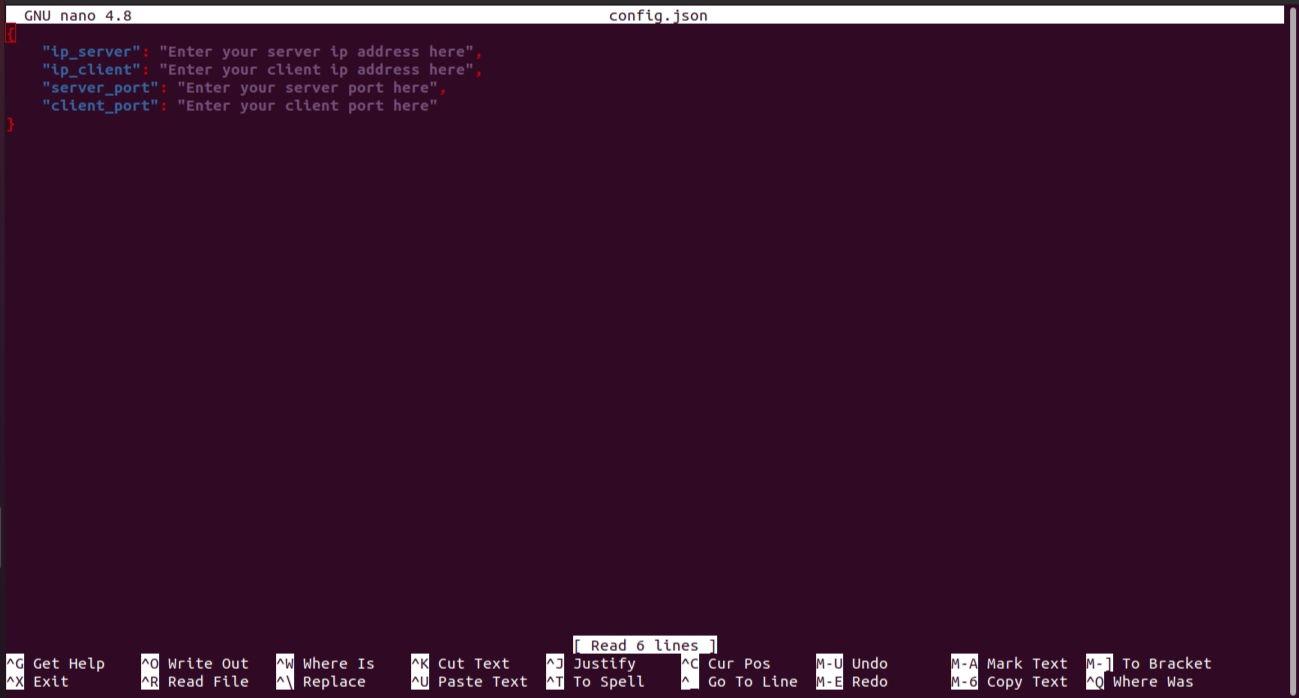
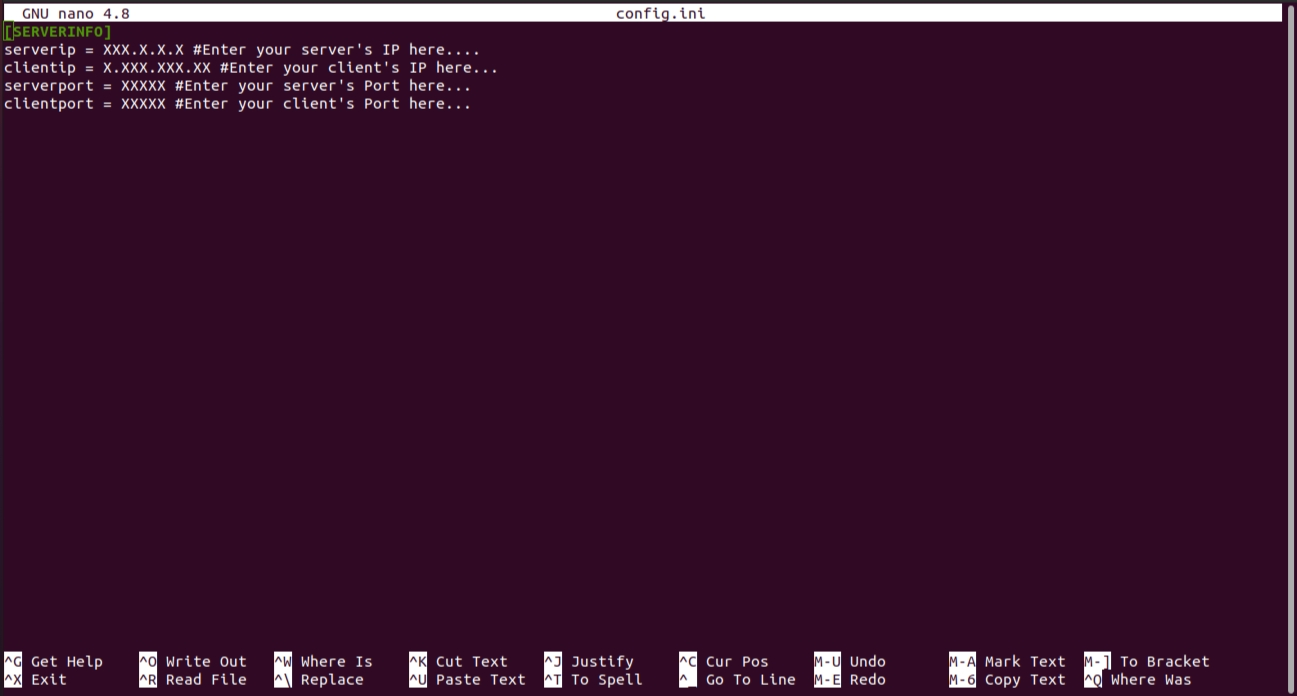
major config file update

Changed region(s): [[0.0, 0.0, 1.0, 0.181], [0.0, 0.9052, 0.6785, 0.9957], [0.7093, 0.9353, 0.8944, 0.9957]]

diff --git a/client.py b/client.py
@@ -1,13 +1,14 @@
 import socket
+from configparser import ConfigParser
 from threading import Thread
 s = socket.socket(socket.AF_INET, socket.SOCK_STREAM)
 
-ip = '3.142.129.56'
-port = 14399
+config_object = ConfigParser()
+config_object.read("config.ini")
+info = config_object["SERVERINFO"]
+ip = info["clientip"]
+port = int(info["clientport"])
 
-#with open("config.json", 'r') as File:
-    #ip = File["ip_client"]
-    #port = File["clientPort"]
 
 
 s.connect((ip, port))

diff --git a/server.py b/server.py
@@ -1,13 +1,16 @@
 import socket
 from threading import Thread
+from configparser import ConfigParser
 
 s = socket.socket(socket.AF_INET, socket.SOCK_STREAM)
-ip = "127.0.0.1"
-port = 8010
 
-#with open("config.json", 'r') as File:
-    #ip = File["ipServer"]
-    #port = File["ServerPort"]
+
+config_object = ConfigParser()
+config_object.read("config.ini")
+info = config_object["SERVERINFO"]
+ip = info["serverip"]
+port = int(info["serverport"])
+
 
 
 maxClients = 1

diff --git a/README.md b/README.md
@@ -9,18 +9,19 @@ A Simple App to just chat with yourself, when you're bored.
 
 ### Get into the directory(repo).
 ``` cd Chat ```
-### Editing the 'config.txt'.
-``` nano config.json ```
+### Editing the 'config.ini'.
+``` nano config.ini ```
 
 * Then you will se somethink like this.
 ![config](confignano.jpg)
 
 ### For local network communications:
-#### Now quickly provide your private ip address, and a unused port in the json.
+#### Now quickly provide your private ip address, and a unused port in the config file.
 
 #### Note:
-* server_ip and client_ip will be same in this scenario.
-* And the server_port and client_port should be also same ports affixed by you.
+* serverip and clientip will be same in this scenario.
+* And the serverport and clientport should be also same ports affixed by you.
+* Note, in this scenario the server and client scripts should be run on 2 different devices but, bot must be connected to a same LAN.
 
 1. To know your private ip  (Linux distributions) click 👉 https://phoenixnap.com/kb/how-to-find-ip-address-linux
 
@@ -28,34 +29,39 @@ A Simple App to just chat with yourself, when you're bored.
 
 3. To know more about Internet Protocols (IP) click 👉 https://www.avg.com/en/signal/find-ip-address?v=b and  also read 👉 https://www.avast.com/c-ip-address-public-vs-private
 
-* After editing the config.json, it will look like this, Note it's just an example.
-![example](example.jpg)
 
-* Now make sure that you're running the server.py script in a system
 ``` python server.py ```
 
 
 ### For fun communications within a local machine:
-#### Now quickly provide the local host address(i.e, 127.0.0.1) and a unused port, inside the config.json as said before.
+#### Now quickly provide the local host address(i.e, 127.0.0.1) and a unused port, inside the config.ini as said before.
 
 #### Note:
-* server_ip and client_ip will also be same in this scenario.
-* And the server_port and client_port should be also same ports affixed by you.
+* serverip and clientip will also be same in this scenario.
+* And the serverport and clientport should be also same ports affixed by you.
+* In this scenario both the server and client scripts should be running on a same device connected to any network.
+
+1. Now run ``` python server.py ```
 
 
 ## For communication throughout the wide area networks:
-* Provide your localhost address (i.e, 127.0.0.1) at the server_ip section.
-* And now provide your forwarded public ip address here, wait don't know how to get a forwarded ip address, it will be done in a few steps:
-1. Install ngrok software into your system and authenticate yourself by the software given unique authtokenafter signing in with them, for installing and setting up the software follow 👉 https://ngrok.com/download and for usage follow 👉 https://ngrok.com/docs
-2. After a sucessful installation, use the below command to forward your port 
+* Provide your localhost address (i.e, 127.0.0.1) at the serverip section.
+* And now provide your forwarded public ip address , wait don't know how to get a forwarded ip address, it will be done in a few steps:
+1. Install ngrok software into your system and authenticate yourself by the software given unique authtokenafter, signing in with them, for installing and setting up the software follow 👉 https://ngrok.com/download and for usage follow 👉 https://ngrok.com/docs
+2. After a sucessful installation, use the below command to forward your port.
 ``` ngrok tcp <internal port> ```
-3. Then you will be getting  a forwarded link, where actually your local port is forwarded, get it and run the command below
-``` ping <the forwarded link copied before> ```
-4. By doing this you will be getting a public forwarded ip, get it and provide it in the configuration file as client_ip. And also provide the new port after forwarding as the client_port.
 
-3. Now get the new forwarded public ip and provide it as it explained before. 
+3. Then you will be getting  a forwarded link, where actually your local port is forwarded, get it and run the command below.
+``` ping <the forwarded link copied before> ```
+
+4. By doing this you will be getting a public forwarded ip, get it and provide it in the configuration file as clientip. And also provide the new port after forwarding as the clientport.
+
+5. Now run ``` python server.py ```
+
+6. Note in this scenario run the client script in another device which isn't connected to the LAN, in which your server script is running.
+
 ### Starting your client program:
-* Now with the same configurations provided above run the client.py script.
+* Now with the same configurations according to your scenario(i.e, LAN, Local Machine, WAN communications)  provided above run the client.py script.
  ``` python client.py ```
 
 :) That's it, now n'joy the chatting between your own server and client systems.
